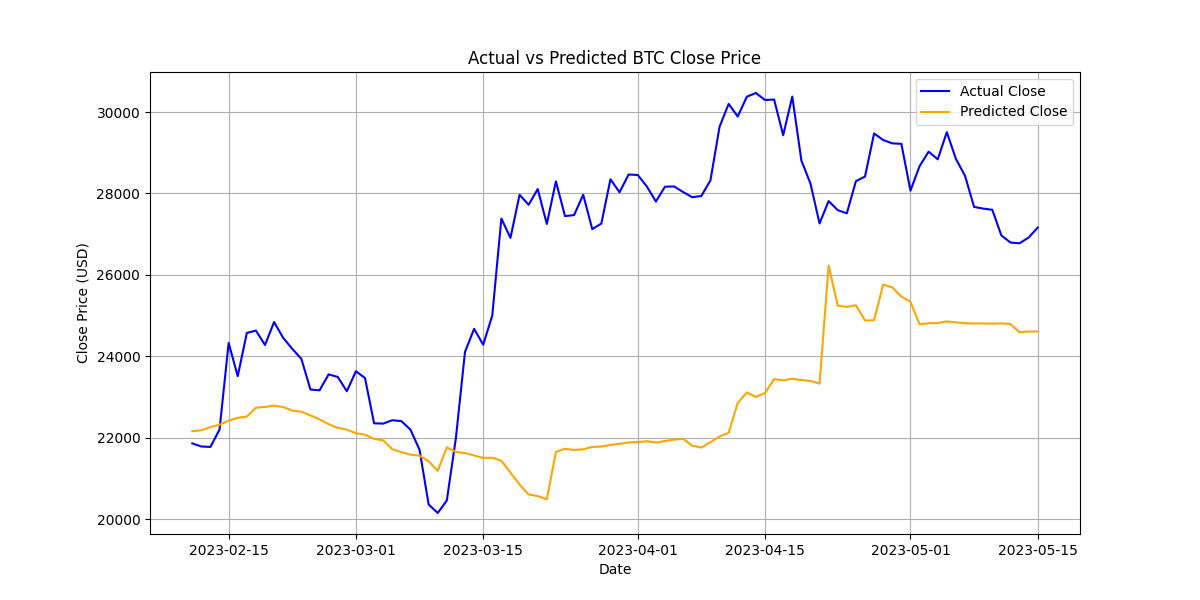
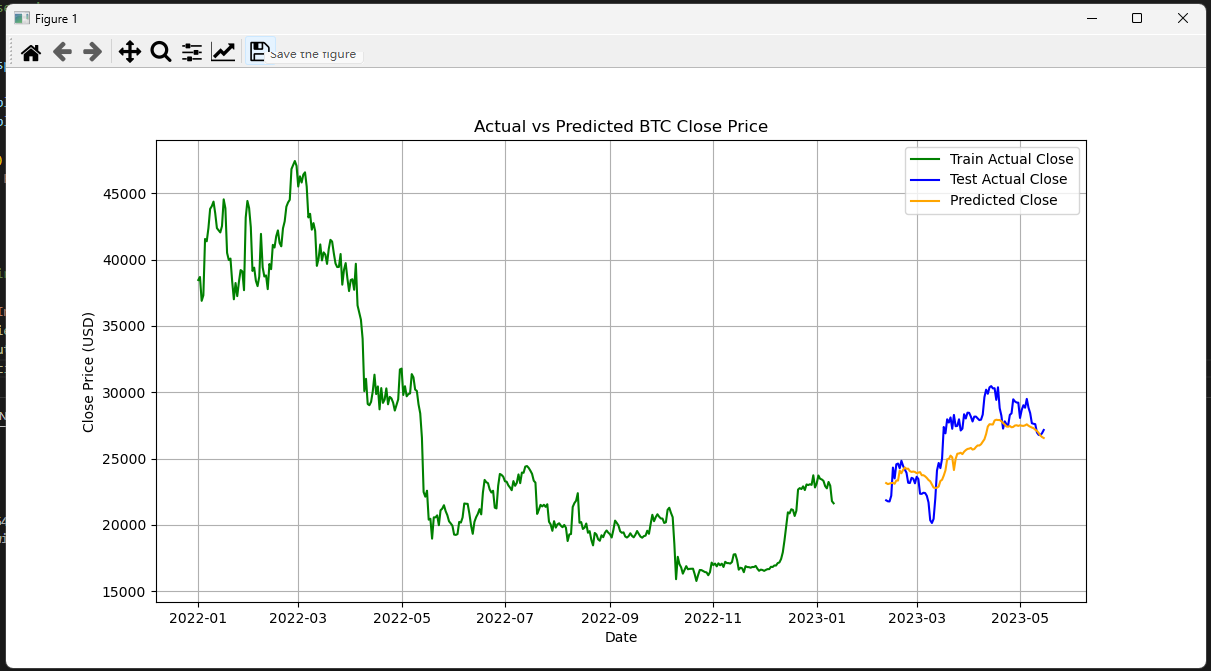
test增加训练数据对比

diff --git a/transformer/run.py b/transformer/run.py
@@ -11,7 +11,6 @@ import torch.nn as nn
 device = torch.device("cuda" if torch.cuda.is_available() else "cpu")
 print(f'device:{device}')
 
-
 def predict(model, test_loader):
     model.eval()
     predictions = []
@@ -109,7 +108,7 @@ if __name__ == "__main__":
     learning_rate = 0.001
 
     # Load data
-    df = dataset.load_data('btc_daily.csv')
+    df = dataset.load_data('bitcoin_price.csv')
     data = df[['open', 'high', 'low', 'close', 'volume']].values
     feature_names = ['open', 'high', 'low', 'close', 'volume']
     input_dim = data.shape[1]  # 5 features
@@ -141,15 +140,23 @@ if __name__ == "__main__":
     predictions = predict(model, test_loader)
 
     # Inverse transform predictions and targets
-    dummy = np.zeros((len(test_targets), data.shape[1]))
-    dummy[:, 3] = test_targets
-    actual_close = scaler.inverse_transform(dummy)[:, 3]
-    dummy[:, 3] = predictions.squeeze()
-    predicted_close = scaler.inverse_transform(dummy)[:, 3]
+    dummy_test = np.zeros((len(test_targets), data.shape[1]))
+    dummy_test[:, 3] = test_targets
+    actual_close_test = scaler.inverse_transform(dummy_test)[:, 3]
+    dummy_test[:, 3] = predictions.squeeze()
+    predicted_close = scaler.inverse_transform(dummy_test)[:, 3]
+
+    # Inverse transform train targets
+    dummy_train = np.zeros((len(train_targets), data.shape[1]))
+    dummy_train[:, 3] = train_targets
+    actual_close_train = scaler.inverse_transform(dummy_train)[:, 3]
 
     # Plot actual vs predicted close prices
     plt.figure(figsize=(12, 6))
-    plt.plot(df['datetime'].iloc[split_idx + seq_length:], actual_close, label='Actual Close', color='blue')
+    # Plot train data
+    plt.plot(df['datetime'].iloc[:split_idx], actual_close_train, label='Train Actual Close', color='green')
+    # Plot test data
+    plt.plot(df['datetime'].iloc[split_idx + seq_length:], actual_close_test, label='Test Actual Close', color='blue')
     plt.plot(df['datetime'].iloc[split_idx + seq_length:], predicted_close, label='Predicted Close', color='orange')
     plt.xlabel('Date')
     plt.ylabel('Close Price (USD)')

diff --git a/transformer/readme.md b/transformer/readme.md
@@ -1,4 +1,4 @@
-transformer performance is not good enought, need to improve![img.png](img.png)  
+transformer performance is not good enough, need to improve![img.png](img.png)  
 **reason**:  
 **insufficient data**: The data volume is not sufficient; at least 100,000 data points are needed.  
 **data granularity**: The granularity of daily frequency data is too coarse. More detailed data, such as minute-level or order flow data, is required.  
